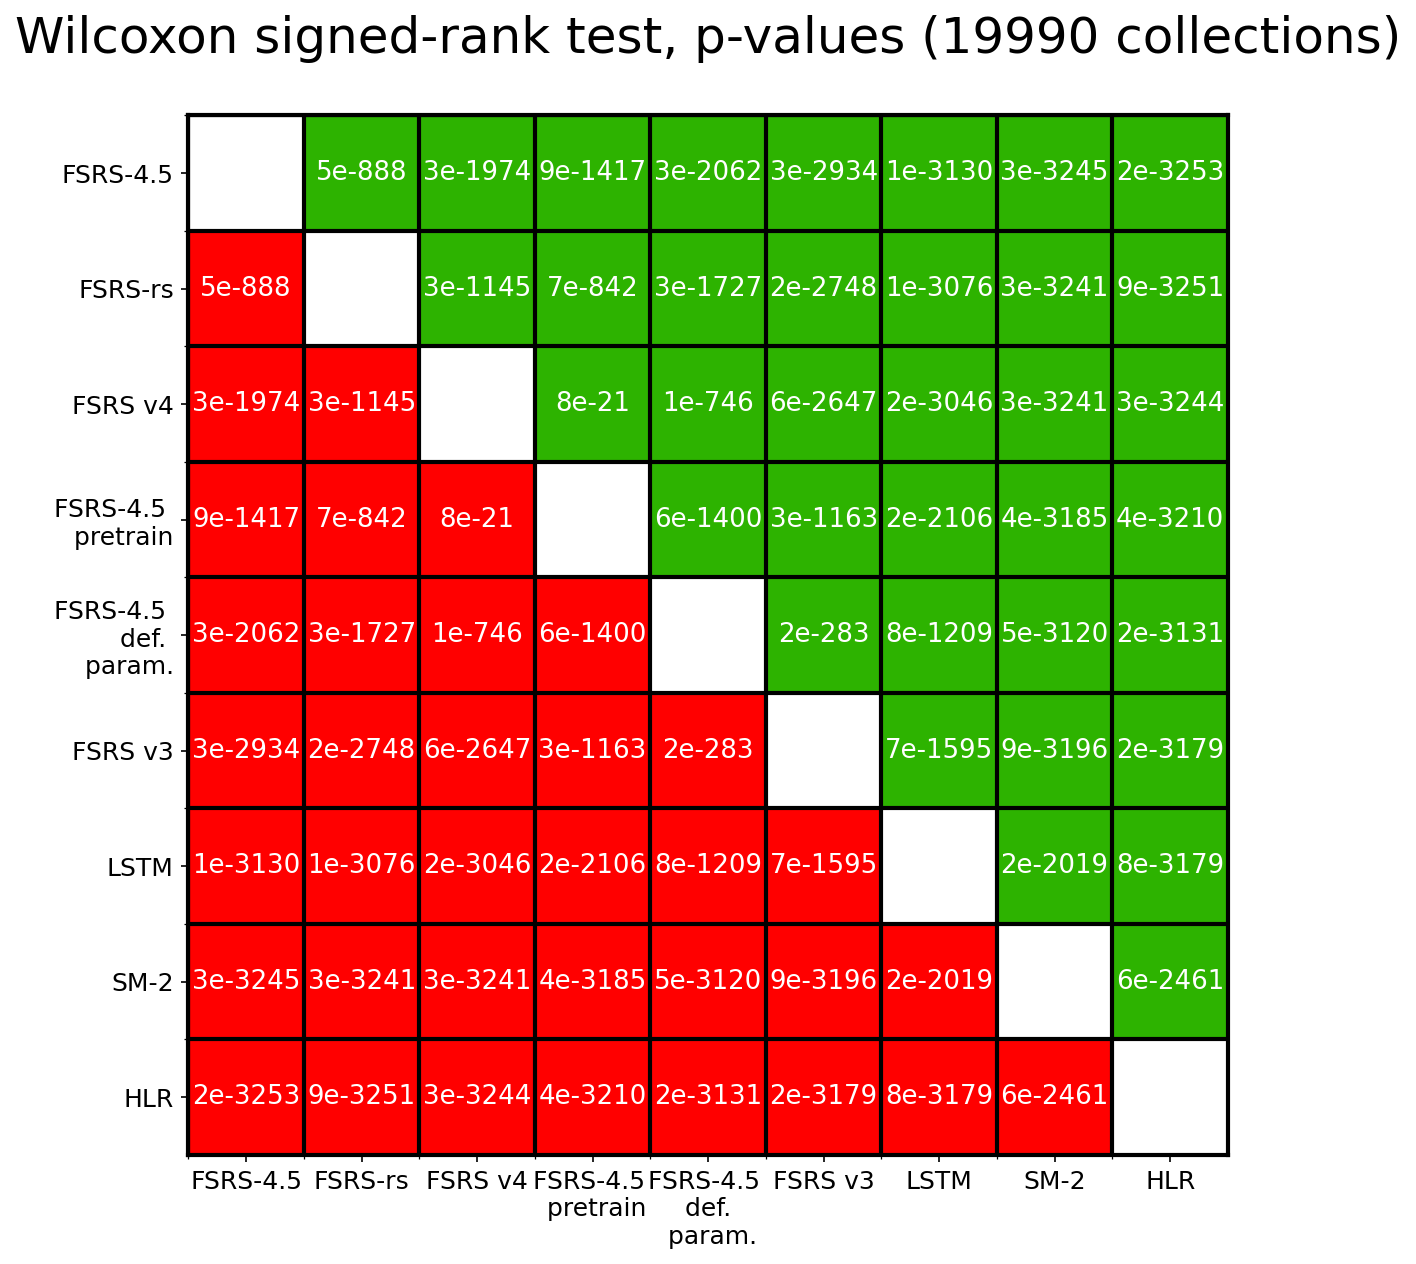
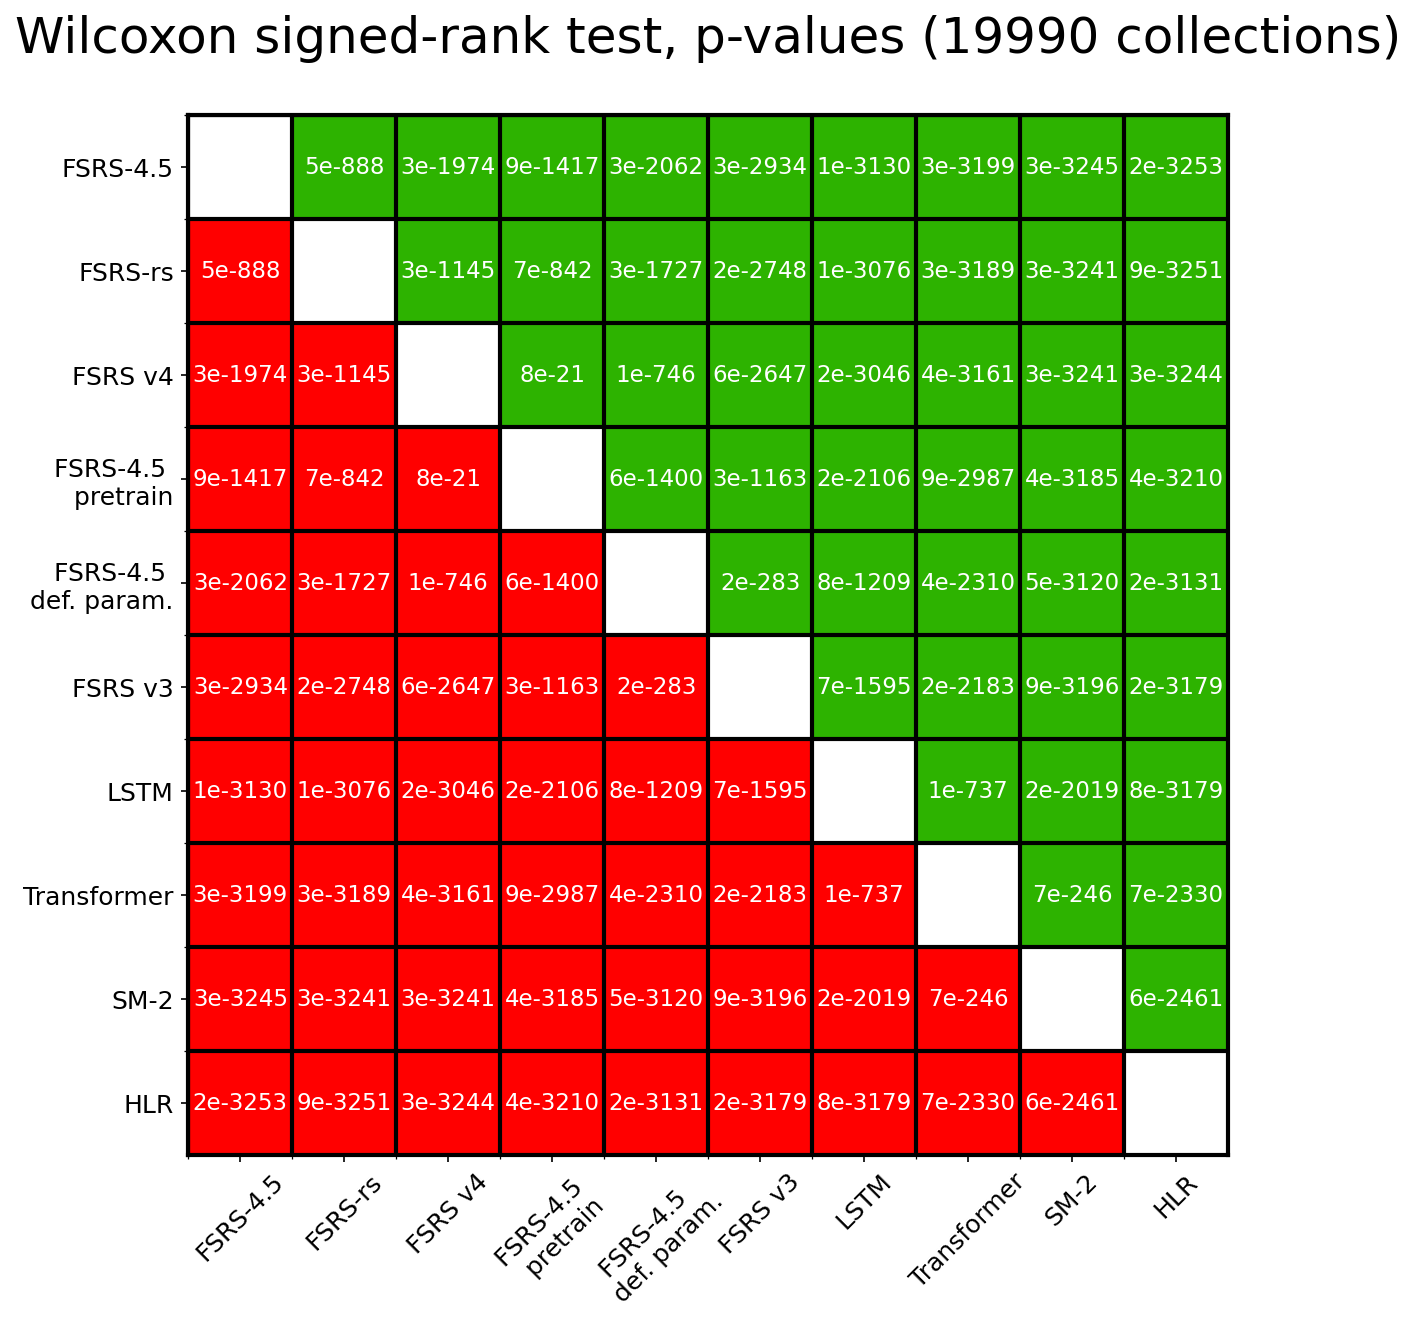
update transformer p-value

Changed region(s): [[0.0311, 0.0, 0.9322, 0.9873], [0.0311, 0.1234, 0.1243, 0.1543], [0.9633, 0.0309, 0.9944, 0.0617]]

diff --git a/significance_table.py b/significance_table.py
@@ -114,6 +114,7 @@ if __name__ == "__main__":
         "FSRS-4.5-dry-run",
         "FSRSv3",
         "LSTM",
+        "Transformer",
         "SM2",
         "HLR",
     ]
@@ -196,7 +197,7 @@ if __name__ == "__main__":
     index_v4 = models.index("FSRSv4")
     index_v3 = models.index("FSRSv3")
     index_sm2 = models.index("SM2")
-    models[index_4_5_dry_run] = "FSRS-4.5 \n def. \n param."
+    models[index_4_5_dry_run] = "FSRS-4.5 \n def. param."
     models[index_4_5_pretrain] = "FSRS-4.5 \n pretrain"
     models[index_v4] = "FSRS v4"
     models[index_v3] = "FSRS v3"
@@ -232,7 +233,7 @@ if __name__ == "__main__":
                     fontsize=11,
                 )
 
-    ax.set_xticks(np.arange(n), labels=models, fontsize=12)
+    ax.set_xticks(np.arange(n), labels=models, fontsize=12, rotation=45)
     ax.set_yticks(np.arange(n), labels=models, fontsize=12)
     ax.set_xticks(np.arange(n) - 0.5, minor=True)
     ax.set_yticks(np.arange(n) - 0.5, minor=True)
